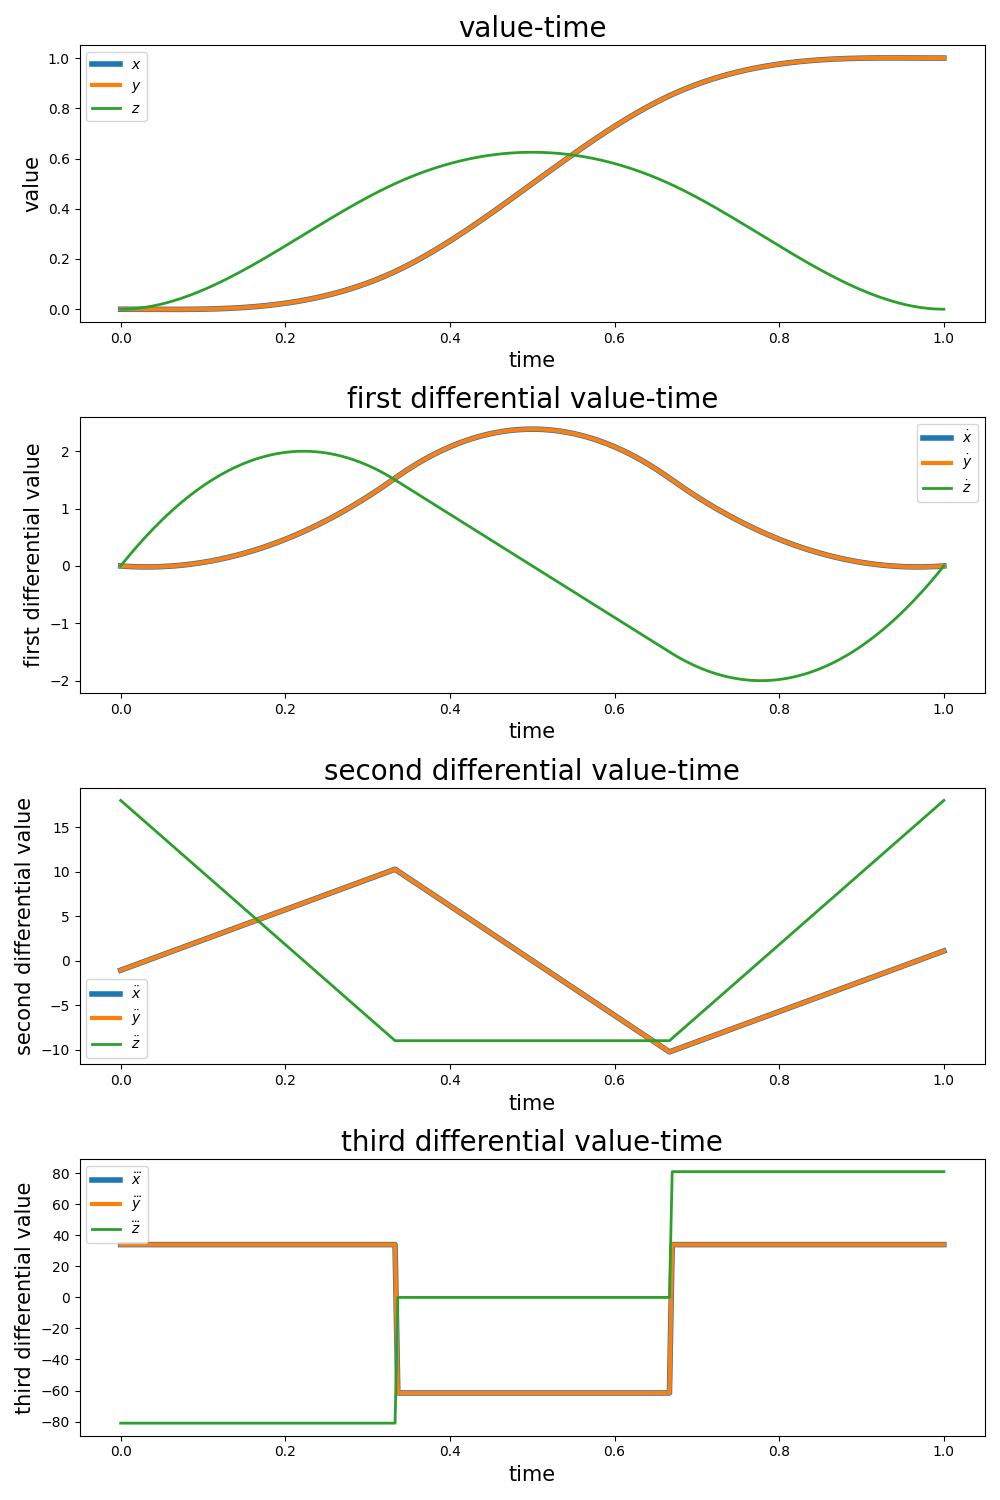
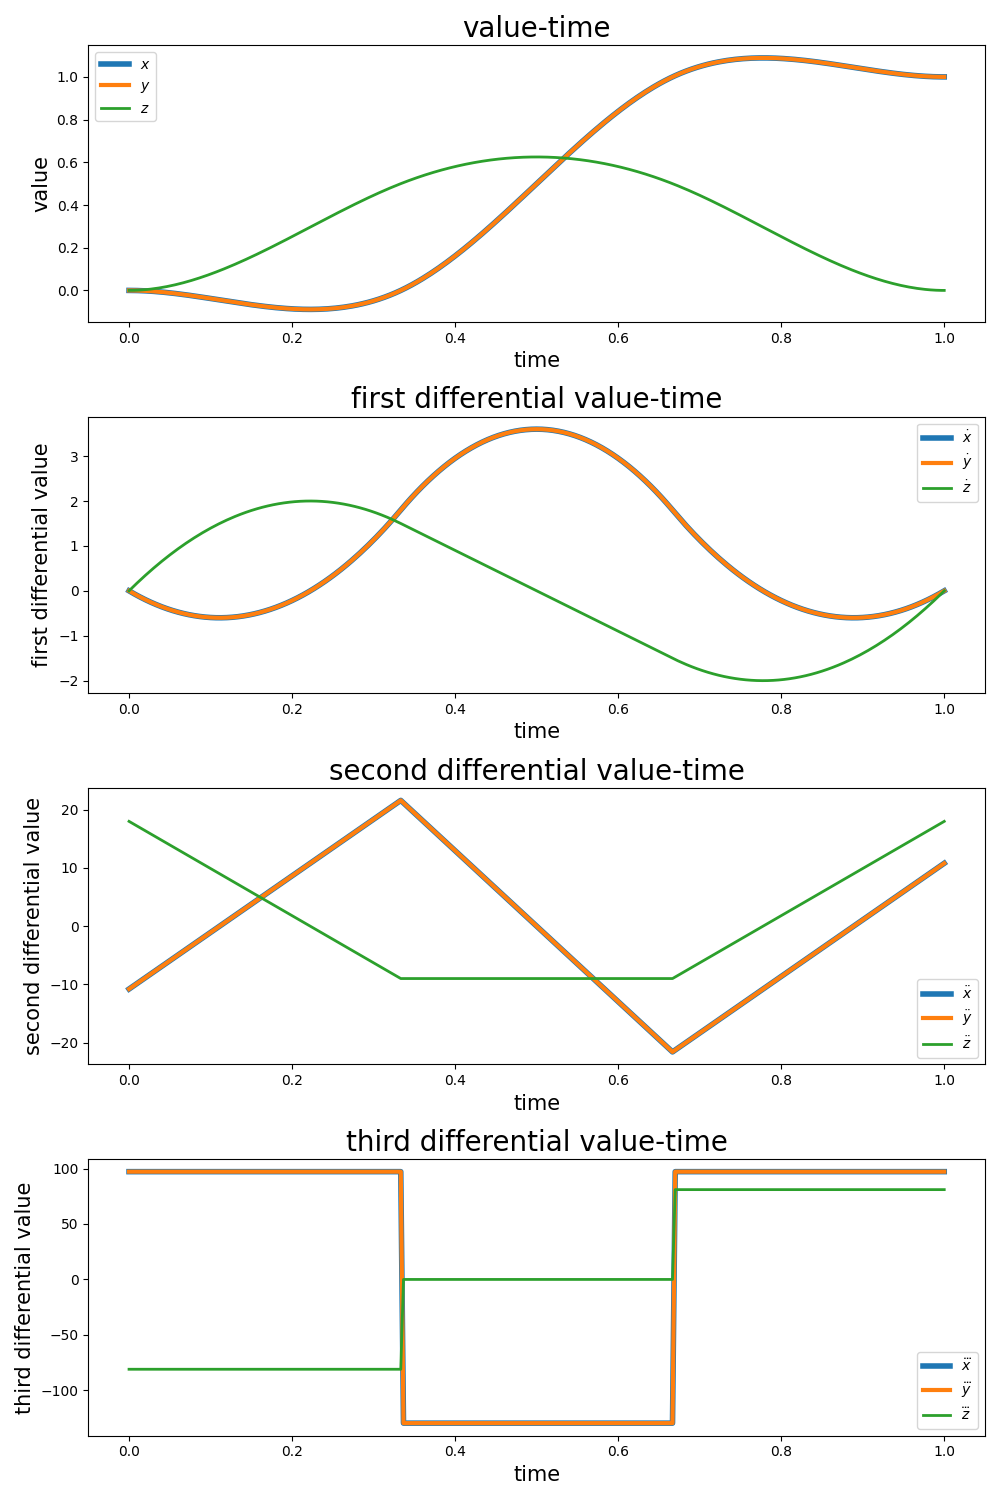
edited some of the code

diff --git a/Code/PathPlannerAdeptCycle.py b/Code/PathPlannerAdeptCycle.py
@@ -197,7 +197,6 @@ class PathPlanner_AdeptCycle:
 		plt.xlabel("time", fontsize=15)
 		plt.ylabel("second differential value", fontsize=15)
 
-		print(x_dddot)
 		if x_dddot is not None:
 			# plot theta triple dot 
 			plt.subplot(414)
@@ -241,88 +240,103 @@ if __name__ == "__main__":
 	path_planner = PathPlanner_AdeptCycle(PATH)
 	
 	# getting the results for the cubic spline method
-	(xyz_array, xyz_results) = path_planner.point_to_point('ptp_polynomial5th')
+	(xyz_array, xyz_results) = path_planner.cubic_spline()
 
 	# path planner plot 3D 
-	# path_planner.plot3d(xyz_array, 'Point-to-Point 5th order polynomial')
-	path_planner.plot(xyz_results, 'Point-to-Point 5th order polynomial')
+	path_planner.plot3d(xyz_array, 'Cubic Spline')
+	path_planner.plot(xyz_results, 'Cubic Spline')
 
+# # -------------------------------------------------------------------------------------------------
 
-# -------------------------------------------------------------------------------------------------
+# 	# Set the path [[x1, y1, z1], [x2, y2, z2], [x3, y3, z3], [x4, y4, z4]]
+# 	PATH = [[0, 0, 0], [0, 0, 0.5], [1, 1, 0.5], [1, 1, 0]]
 
-	# Set the path [[x1, y1, z1], [x2, y2, z2], [x3, y3, z3], [x4, y4, z4]]
-	PATH = [[0, 0, 0], [0, 0, 0.5], [1, 1, 0.5], [1, 1, 0]]
-
-	# Path planner class init
-	path_planner = PathPlanner_AdeptCycle(PATH)
+# 	# Path planner class init
+# 	path_planner = PathPlanner_AdeptCycle(PATH)
 	
-	# getting the results for the cubic spline method
-	(xyz_array, xyz_results) = path_planner.point_to_point('ptp_polynomial7th')
+# 	# getting the results for the cubic spline method
+# 	(xyz_array, xyz_results) = path_planner.point_to_point('ptp_polynomial5th')
 
-	# path planner plot 3D 
-	# path_planner.plot3d(xyz_array, 'Point-to-Point 7th order polynomial')
-	path_planner.plot(xyz_results, 'Point-to-Point 7th order polynomial')
+# 	# path planner plot 3D 
+# 	# path_planner.plot3d(xyz_array, 'Point-to-Point 5th order polynomial')
+# 	path_planner.plot(xyz_results, 'Point-to-Point 5th order polynomial')
 
 
-# -------------------------------------------------------------------------------------------------
+# # -------------------------------------------------------------------------------------------------
 
-	# Set the path [[x1, y1, z1], [x2, y2, z2], [x3, y3, z3], [x4, y4, z4]]
-	PATH = [[0, 0, 0], [0, 0, 0.5], [1, 1, 0.5], [1, 1, 0]]
+# 	# Set the path [[x1, y1, z1], [x2, y2, z2], [x3, y3, z3], [x4, y4, z4]]
+# 	PATH = [[0, 0, 0], [0, 0, 0.5], [1, 1, 0.5], [1, 1, 0]]
 
-	# Path planner class init
-	path_planner = PathPlanner_AdeptCycle(PATH)
+# 	# Path planner class init
+# 	path_planner = PathPlanner_AdeptCycle(PATH)
 	
-	# getting the results for the cubic spline method
-	(xyz_array, xyz_results) = path_planner.point_to_point('ptp_polynomial9th')
+# 	# getting the results for the cubic spline method
+# 	(xyz_array, xyz_results) = path_planner.point_to_point('ptp_polynomial7th')
 
-	# path planner plot 3D 
-	# path_planner.plot3d(xyz_array, 'Point-to-Point 9th order polynomial')
-	path_planner.plot(xyz_results, 'Point-to-Point 9th order polynomial')
+# 	# path planner plot 3D 
+# 	# path_planner.plot3d(xyz_array, 'Point-to-Point 7th order polynomial')
+# 	path_planner.plot(xyz_results, 'Point-to-Point 7th order polynomial')
 
 
-# -------------------------------------------------------------------------------------------------
+# # -------------------------------------------------------------------------------------------------
 
-	# Set the path [[x1, y1, z1], [x2, y2, z2], [x3, y3, z3], [x4, y4, z4]]
-	PATH = [[0, 0, 0], [0, 0, 0.5], [1, 1, 0.5], [1, 1, 0]]
+# 	# Set the path [[x1, y1, z1], [x2, y2, z2], [x3, y3, z3], [x4, y4, z4]]
+# 	PATH = [[0, 0, 0], [0, 0, 0.5], [1, 1, 0.5], [1, 1, 0]]
 
-	# Path planner class init
-	path_planner = PathPlanner_AdeptCycle(PATH)
+# 	# Path planner class init
+# 	path_planner = PathPlanner_AdeptCycle(PATH)
 	
-	# getting the results for the cubic spline method
-	(xyz_array, xyz_results) = path_planner.point_to_point('ptp_bangbang')
+# 	# getting the results for the cubic spline method
+# 	(xyz_array, xyz_results) = path_planner.point_to_point('ptp_polynomial9th')
 
-	# path planner plot 3D 
-	# path_planner.plot3d(xyz_array, 'Point-to-Point Bang Bang')
-	path_planner.plot(xyz_results, 'Point-to-Point Bang Bang')
+# 	# path planner plot 3D 
+# 	# path_planner.plot3d(xyz_array, 'Point-to-Point 9th order polynomial')
+# 	path_planner.plot(xyz_results, 'Point-to-Point 9th order polynomial')
 
 
-# -------------------------------------------------------------------------------------------------
+# # -------------------------------------------------------------------------------------------------
 
-	# Set the path [[x1, y1, z1], [x2, y2, z2], [x3, y3, z3], [x4, y4, z4]]
-	PATH = [[0, 0, 0], [0, 0, 0.5], [1, 1, 0.5], [1, 1, 0]]
+# 	# Set the path [[x1, y1, z1], [x2, y2, z2], [x3, y3, z3], [x4, y4, z4]]
+# 	PATH = [[0, 0, 0], [0, 0, 0.5], [1, 1, 0.5], [1, 1, 0]]
 
-	# Path planner class init
-	path_planner = PathPlanner_AdeptCycle(PATH)
+# 	# Path planner class init
+# 	path_planner = PathPlanner_AdeptCycle(PATH)
 	
-	# getting the results for the cubic spline method
-	(xyz_array, xyz_results) = path_planner.point_to_point('ptp_trapezoidal')
+# 	# getting the results for the cubic spline method
+# 	(xyz_array, xyz_results) = path_planner.point_to_point('ptp_bangbang')
 
-	# path planner plot 3D 
-	# path_planner.plot3d(xyz_array, 'Point-to-Point Trapezoidal')
-	path_planner.plot(xyz_results, 'Point-to-Point Trapezoidal')
+# 	# path planner plot 3D 
+# 	# path_planner.plot3d(xyz_array, 'Point-to-Point Bang Bang')
+# 	path_planner.plot(xyz_results, 'Point-to-Point Bang Bang')
 
 
-# -------------------------------------------------------------------------------------------------
+# # -------------------------------------------------------------------------------------------------
 
-	# Set the path [[x1, y1, z1], [x2, y2, z2], [x3, y3, z3], [x4, y4, z4]]
-	PATH = [[0, 0, 0], [0, 0, 0.5], [1, 1, 0.5], [1, 1, 0]]
+# 	# Set the path [[x1, y1, z1], [x2, y2, z2], [x3, y3, z3], [x4, y4, z4]]
+# 	PATH = [[0, 0, 0], [0, 0, 0.5], [1, 1, 0.5], [1, 1, 0]]
 
-	# Path planner class init
-	path_planner = PathPlanner_AdeptCycle(PATH)
+# 	# Path planner class init
+# 	path_planner = PathPlanner_AdeptCycle(PATH)
 	
-	# getting the results for the cubic spline method
-	(xyz_array, xyz_results) = path_planner.point_to_point('ptp_scurve')
+# 	# getting the results for the cubic spline method
+# 	(xyz_array, xyz_results) = path_planner.point_to_point('ptp_trapezoidal')
 
-	# path planner plot 3D 
-	# path_planner.plot3d(xyz_array, 'Point-to-Point S-Curve')
-	path_planner.plot(xyz_results, 'Point-to-Point S-Curve')
+# 	# path planner plot 3D 
+# 	# path_planner.plot3d(xyz_array, 'Point-to-Point Trapezoidal')
+# 	path_planner.plot(xyz_results, 'Point-to-Point Trapezoidal')
+
+
+# # -------------------------------------------------------------------------------------------------
+
+# 	# Set the path [[x1, y1, z1], [x2, y2, z2], [x3, y3, z3], [x4, y4, z4]]
+# 	PATH = [[0, 0, 0], [0, 0, 0.5], [1, 1, 0.5], [1, 1, 0]]
+
+# 	# Path planner class init
+# 	path_planner = PathPlanner_AdeptCycle(PATH)
+	
+# 	# getting the results for the cubic spline method
+# 	(xyz_array, xyz_results) = path_planner.point_to_point('ptp_scurve')
+
+# 	# path planner plot 3D 
+# 	# path_planner.plot3d(xyz_array, 'Point-to-Point S-Curve')
+# 	path_planner.plot(xyz_results, 'Point-to-Point S-Curve')
